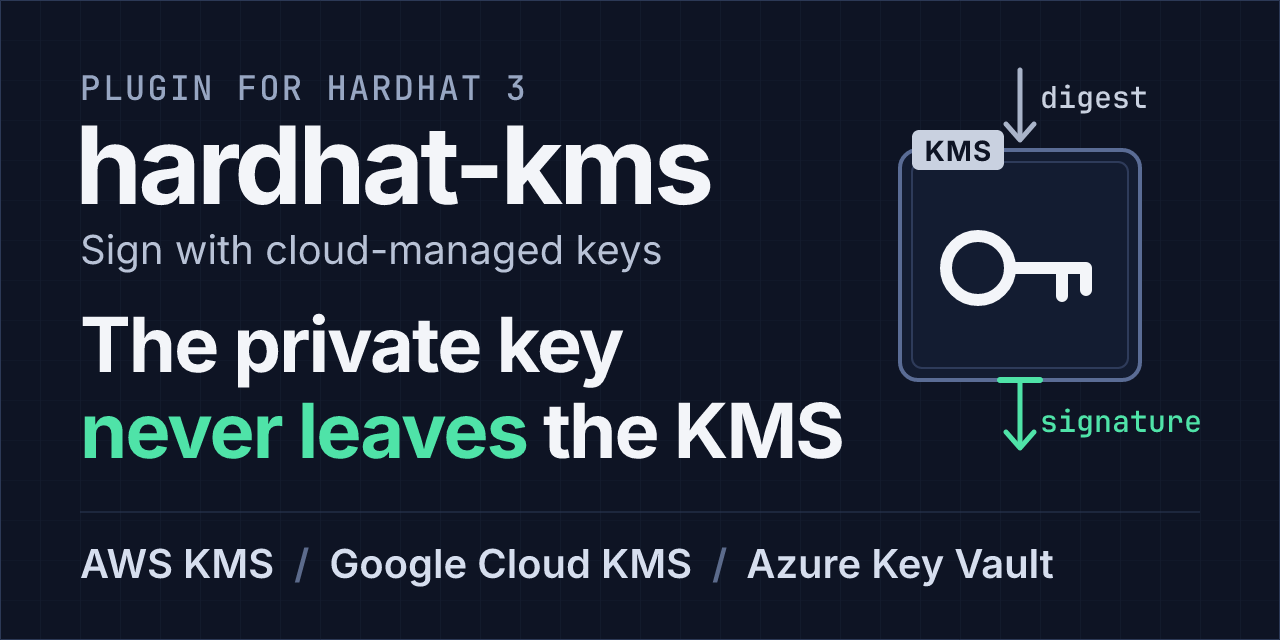
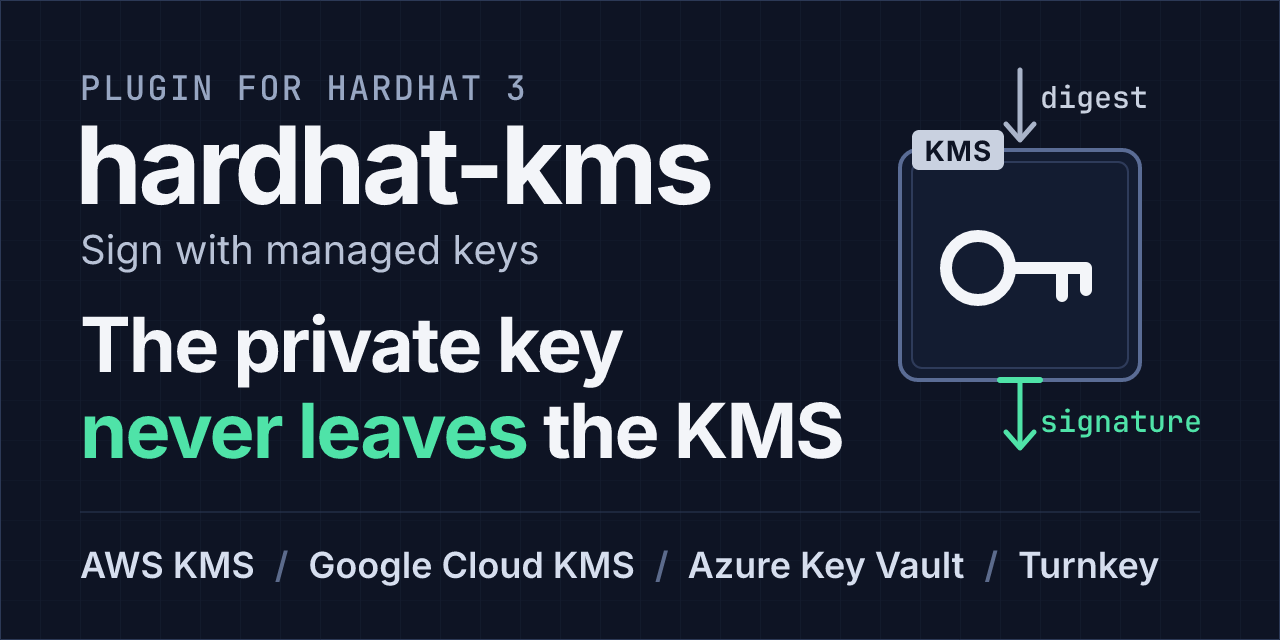
docs: name Turnkey in the social preview and site metadata (#551)
Closes #549

The social preview, the docs site metadata and the npm metadata now name
Turnkey next to AWS KMS, Google Cloud KMS and Azure Key Vault, with the
wording from the issue.

## Changed

- `docs/public/og-image.svg`: subtitle "Sign with managed keys";
providers line "AWS KMS / Google Cloud KMS / Azure Key Vault / Turnkey".
At 40 px the line ran to x ≈ 1265, past the divider (x2 = 1200) and
almost off the canvas, so it is now 36 px (ends at x ≈ 1158). Fonts,
colours, layout and the hero claim are unchanged.
- `docs/public/og-image.png`: rendered with the repo's own `pnpm run
docs:og` (`scripts/render-og-image.ts`, `@resvg/resvg-js` with the
vendored Inter and JetBrains Mono under `tools/docs-site/fonts/`),
1280x640, 97 KB. `docs:site:check` confirms it matches a fresh render of
the SVG.
- `tools/docs-site/.vitepress/site.ts`: `SITE_DESCRIPTION` (feeds the
meta description, `og:description`, the landing page's JSON-LD
`description` and the `llms.txt` header) and `OG_IMAGE.alt` (feeds
`og:image:alt` and `twitter:image:alt`). Width and height stay 1280x640.
- `tools/docs-site/.vitepress/config.ts`: landing page title ("Sign
Hardhat 3 transactions with a KMS or Turnkey key"), hero text ("Sign
with a managed key"), hero tagline, a Turnkey hero button to the Turnkey
setup guide, and the footer disclaimer (adds Turnkey, as the root README
already does).
- `packages/hardhat-kms/package.json`: description in the issue's
[…]

Changed region(s): [[0.0625, 0.8438, 0.9062, 0.9375], [0.2188, 0.375, 0.5312, 0.4375]]

diff --git a/tools/docs-site/.vitepress/config.ts b/tools/docs-site/.vitepress/config.ts
@@ -329,15 +329,15 @@ const config: UserConfig<DefaultTheme.Config> = defineConfig({
       pageData.frontmatter = { ...pageData.frontmatter, editLink: false };
     }
     if (pageData.relativePath === "index.md" || pageData.filePath === "README.md") {
-      pageData.title = "Sign Hardhat 3 transactions with a cloud KMS key";
+      pageData.title = "Sign Hardhat 3 transactions with a KMS or Turnkey key";
       pageData.frontmatter = {
         ...pageData.frontmatter,
         layout: "home",
         hero: {
           name: SITE_NAME,
-          text: "Sign with a cloud key",
+          text: "Sign with a managed key",
           tagline:
-            "A Hardhat 3 plugin that signs transactions, messages and typed data with keys in AWS KMS, Google Cloud KMS or Azure Key Vault. The private key never leaves the KMS.",
+            "A Hardhat 3 plugin that signs transactions, messages and typed data with keys in AWS KMS, Google Cloud KMS, Azure Key Vault or Turnkey. The private key never leaves the KMS.",
           actions: [
             {
               theme: "brand",
@@ -346,6 +346,7 @@ const config: UserConfig<DefaultTheme.Config> = defineConfig({
             },
             { theme: "alt", text: "Google Cloud KMS", link: "/user/tutorials/first-deploy-gcp" },
             { theme: "alt", text: "Azure Key Vault", link: "/user/tutorials/first-deploy-azure" },
+            { theme: "alt", text: "Turnkey", link: "/user/guides/turnkey-setup" },
             { theme: "alt", text: "Install", link: "/user/guides/install-before-release" },
           ],
         },
@@ -443,7 +444,7 @@ const config: UserConfig<DefaultTheme.Config> = defineConfig({
     socialLinks: [{ icon: "github", link: `https://github.com/${GITHUB_REPOSITORY}` }],
     footer: {
       message:
-        "MIT licensed. A community plugin, not affiliated with or endorsed by Nomic Foundation, Amazon Web Services, Google or Microsoft.",
+        "MIT licensed. A community plugin, not affiliated with or endorsed by Nomic Foundation, Amazon Web Services, Google, Microsoft or Turnkey.",
     },
   },
   vite: {

diff --git a/tools/docs-site/.vitepress/site.ts b/tools/docs-site/.vitepress/site.ts
@@ -17,7 +17,7 @@ export const HOSTNAME: string = `${ORIGIN}${SITE_BASE}`;
 
 /** The description of a page that has none of its own. */
 export const SITE_DESCRIPTION =
-  "Sign Hardhat 3 transactions, messages and typed data with keys in AWS KMS, Google Cloud KMS or Azure Key Vault.";
+  "Sign Hardhat 3 transactions, messages and typed data with keys in AWS KMS, Google Cloud KMS, Azure Key Vault or Turnkey.";
 
 /**
  * The social preview, `docs/public/og-image.png`, served at the site root; `docs/public/og-image.svg`
@@ -32,7 +32,7 @@ export const OG_IMAGE: {
   url: `${HOSTNAME}og-image.png`,
   width: 1280,
   height: 640,
-  alt: "hardhat-kms, a plugin for Hardhat 3: sign with cloud-managed keys. The private key never leaves the KMS: a digest goes in and a signature comes out. Works with AWS KMS, Google Cloud KMS and Azure Key Vault.",
+  alt: "hardhat-kms, a plugin for Hardhat 3: sign with managed keys. The private key never leaves the KMS: a digest goes in and a signature comes out. Works with AWS KMS, Google Cloud KMS, Azure Key Vault and Turnkey.",
 };
 
 /** The largest social preview `docs:site:check` accepts, in bytes. */

diff --git a/scripts/generate-api-docs.ts b/scripts/generate-api-docs.ts
@@ -128,7 +128,7 @@ const API_DESCRIPTIONS: Readonly<Record<string, string>> = {
   "hardhat-kms/alchemy.md":
     "The hardhat-kms/alchemy entry point: checkPreparedCalls, which checks an Alchemy Wallet APIs prepared call before a KMS key signs it.",
   "hardhat-kms/provider-utils.md":
-    "Helpers for writing a KMS provider plugin for hardhat-kms, the same ones the AWS, Google Cloud and Azure packages use; experimental.",
+    "Helpers for writing a KMS provider plugin for hardhat-kms, the same ones the AWS, Google Cloud, Azure and Turnkey packages use; experimental.",
   "hardhat-kms/types.md":
     "Public types of hardhat-kms/types: the kms config section, each provider's key config and the resolved forms Hardhat passes to plugins.",
 };

diff --git a/packages/hardhat-kms/src/index.ts b/packages/hardhat-kms/src/index.ts
@@ -20,7 +20,7 @@ const KEY_ARGUMENT_DESCRIPTION =
 
 /**
  * The hardhat-kms plugin: sign transactions, messages and typed data with keys held in AWS KMS,
- * Google Cloud KMS and Azure Key Vault or Managed HSM.
+ * Google Cloud KMS, Azure Key Vault or Managed HSM, or Turnkey.
  *
  * Add it to the `plugins` array of your Hardhat config.
  */

diff --git a/skills/hardhat-kms/SKILL.md b/skills/hardhat-kms/SKILL.md
@@ -6,7 +6,7 @@ license: MIT
 
 # hardhat-kms
 
-hardhat-kms is a Hardhat 3 plugin. It signs with secp256k1 keys held in AWS KMS, Google Cloud KMS or Azure Key Vault (Managed HSM included). The private key never leaves the KMS. The plugin works at the JSON-RPC layer, so viem, ethers, Ignition and plain scripts see a KMS key as an ordinary account and need no code change.
+hardhat-kms is a Hardhat 3 plugin. It signs with secp256k1 keys held in AWS KMS, Google Cloud KMS, Azure Key Vault (Managed HSM included) or a Turnkey wallet. The private key never leaves the KMS; a Turnkey wallet can be exported only by a root user or a user that a policy allows to. The plugin works at the JSON-RPC layer, so viem, ethers, Ignition and plain scripts see a KMS key as an ordinary account and need no code change.
 
 Hardhat 2 is not supported. If the project's `hardhat` is 2.x, say so and stop.
 
@@ -21,7 +21,7 @@ Hardhat 2 is not supported. If the project's `hardhat` is 2.x, say so and stop.
 
 Install the core, `hardhat-kms`, at the same version as the provider package. A provider package loads the core itself, so `plugins` lists only the provider. Peer dependencies: `hardhat` ^3.18.0, and `viem` ^2.55.13 only for `connection.kms.getAccount`.
 
-The packages are published on npm from version 0.9.0. Check npm for the current version first (`npm view hardhat-kms version`): they are newer than most training data. The [install guide](https://github.com/aelmanaa/hardhat-kms/blob/main/docs/user/guides/install-before-release.md) gives the pnpm and Yarn commands and the settings each needs.
+The packages are published on npm from version 0.9.0, and `@hardhat-kms/turnkey` from version 1.2.0. Check npm for the current version first (`npm view hardhat-kms version`): they are newer than most training data. The [install guide](https://github.com/aelmanaa/hardhat-kms/blob/main/docs/user/guides/install-before-release.md) gives the pnpm and Yarn commands and the settings each needs.
 
 ```sh
 npm install --save-dev "hardhat@^3.18.0" hardhat-kms @hardhat-kms/aws

diff --git a/packages/hardhat-kms/README.md b/packages/hardhat-kms/README.md
@@ -7,7 +7,7 @@
 
 Sign Hardhat 3 transactions, messages and typed data with keys held in **AWS KMS**, **Google Cloud KMS**, **Azure Key Vault** or **Turnkey**. The private key never leaves the KMS.
 
-Hardhat 3 only. A community plugin, built in a personal capacity; not affiliated with or endorsed by Nomic Foundation, Amazon Web Services, Google or Microsoft.
+Hardhat 3 only. A community plugin, built in a personal capacity; not affiliated with or endorsed by Nomic Foundation, Amazon Web Services, Google, Microsoft or Turnkey.
 
 - viem, ethers, Ignition and plain scripts use KMS accounts unchanged: the plugin works at the JSON-RPC layer.
 - Every signature is recovered locally and checked against the key's address before it is used. An optional `address` pin also refuses a key that derives to another address. See the [security model](https://aelmanaa.github.io/hardhat-kms/user/explanation/security-model).

diff --git a/docs/user/guides/migrate-from-foundry.md b/docs/user/guides/migrate-from-foundry.md
@@ -1,6 +1,6 @@
 ---
 title: Move KMS signing from Foundry to Hardhat
-description: "Foundry --aws, --gcp and --turnkey equivalents in Hardhat 3: the --kms option reads the same key variables, or the keys move into the config."
+description: "Foundry --aws, --gcp and --turnkey equivalents in Hardhat 3: --kms reads the same AWS and Google Cloud key variables, and a Turnkey key moves into the config."
 ---
 
 # Move KMS signing from Foundry to Hardhat

diff --git a/docs/user/explanation/versioning.md b/docs/user/explanation/versioning.md
@@ -57,7 +57,7 @@ yarn add --dev hardhat-kms @hardhat-kms/aws
 
 :::
 
-To test a version before it is promoted, install both packages from `beta`. `@hardhat-kms/gcp` and `@hardhat-kms/azure` install the same way.
+To test a version before it is promoted, install both packages from `beta`. `@hardhat-kms/gcp`, `@hardhat-kms/azure` and `@hardhat-kms/turnkey` install the same way.
 
 ::: code-group
 

diff --git a/docs/user/reference/api/hardhat-kms/provider-utils.md b/docs/user/reference/api/hardhat-kms/provider-utils.md
@@ -1,6 +1,6 @@
 ---
 title: hardhat-kms/provider-utils
-description: Helpers for writing a KMS provider plugin for hardhat-kms, the same ones the AWS, Google Cloud and Azure packages use; experimental.
+description: Helpers for writing a KMS provider plugin for hardhat-kms, the same ones the AWS, Google Cloud, Azure and Turnkey packages use; experimental.
 ---
 
 # hardhat-kms/provider-utils

diff --git a/docs/user/reference/api/hardhat-kms.md b/docs/user/reference/api/hardhat-kms.md
@@ -15,6 +15,6 @@ and each network's `kmsAccounts` to Hardhat's config types.
 > `const` **default**: `HardhatPlugin`
 
 The hardhat-kms plugin: sign transactions, messages and typed data with keys held in AWS KMS,
-Google Cloud KMS and Azure Key Vault or Managed HSM.
+Google Cloud KMS, Azure Key Vault or Managed HSM, or Turnkey.
 
 Add it to the `plugins` array of your Hardhat config.

diff --git a/.changeset/brand-turnkey-549.md b/.changeset/brand-turnkey-549.md
@@ -1,0 +1,6 @@
+---
+"hardhat-kms": patch
+"@hardhat-kms/turnkey": patch
+---
+
+The package description and keywords now mention Turnkey.
